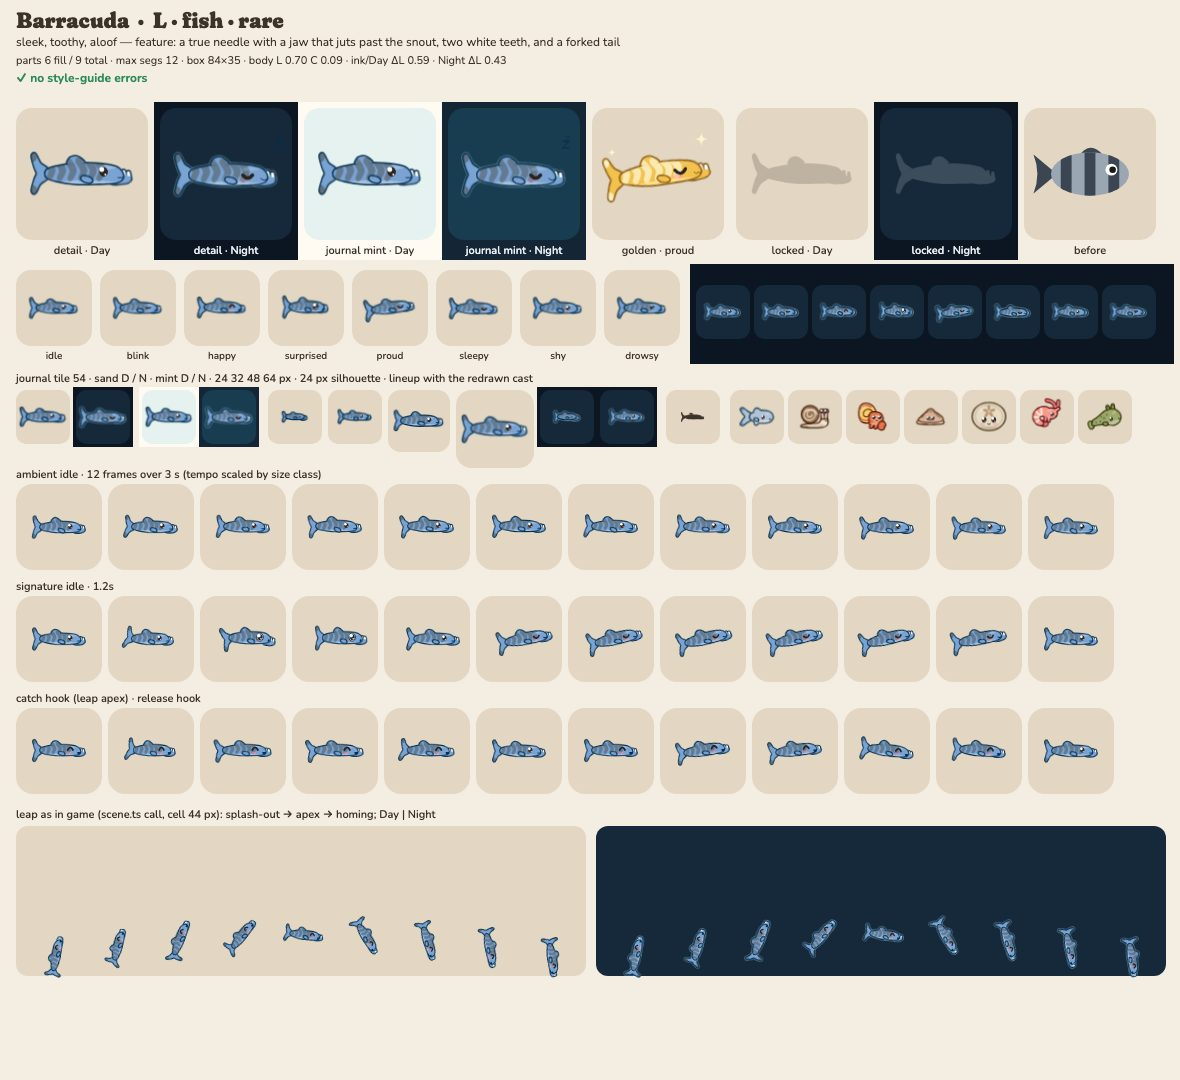
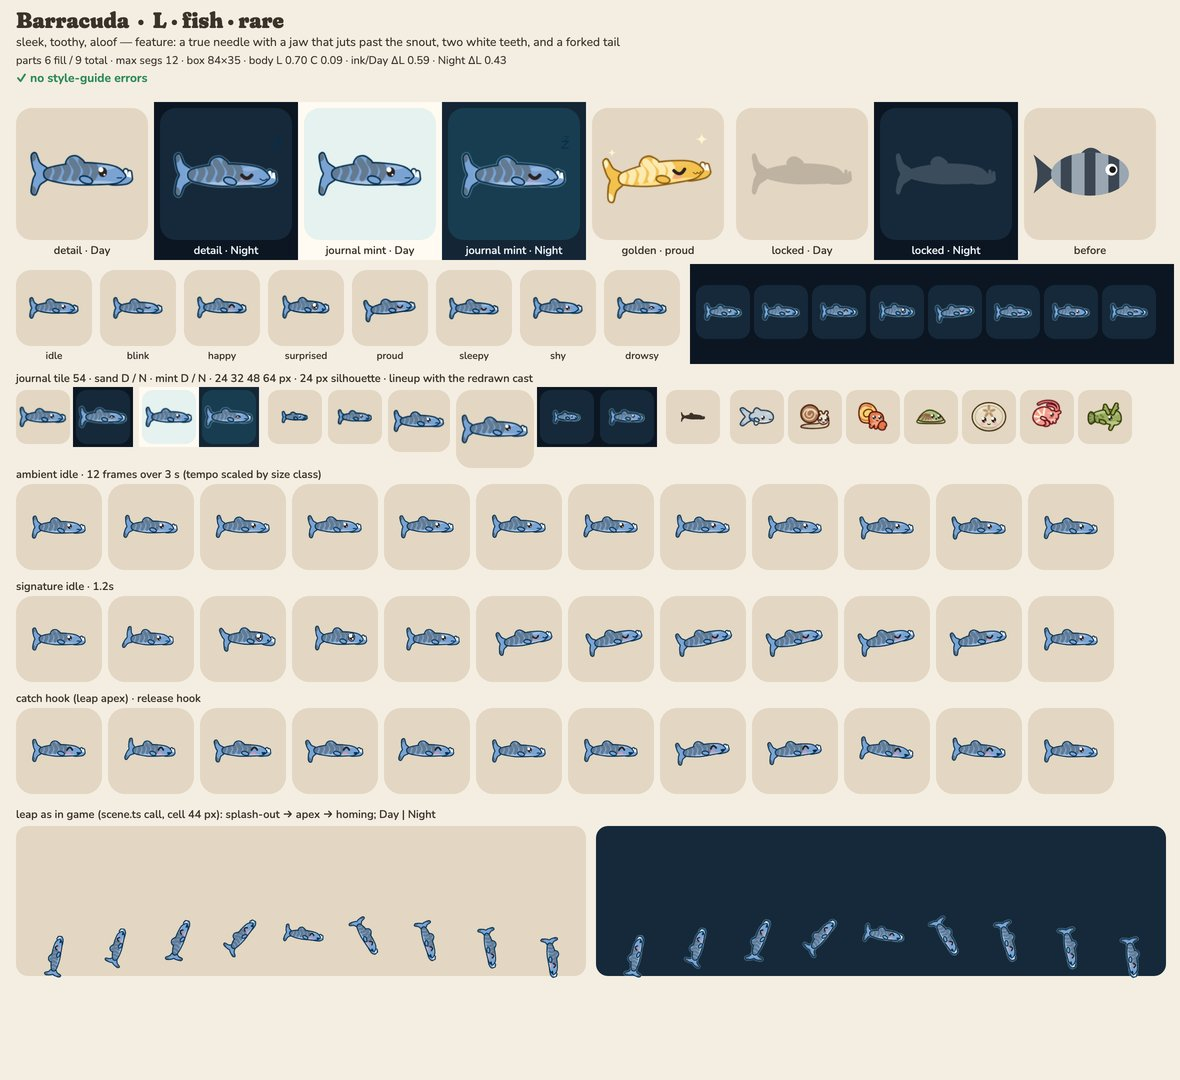
render: barracuda art round 3 — pointed snout, +6 u underbite, two 5 u white teeth (ADR 0011)
CRITIQUE-2: the round melon (dolphin) became a pointed upper snout, the jaw juts 5.5 u past it
with two taller white teeth that read at 54 px, chevrons moved back off the face. Aloof flat
mouth at rest. Closest: wrasse 0.681 (fish), sandeel 0.640. Verdict: A-.

diff --git a/src/render/art/species/barracuda.ts b/src/render/art/species/barracuda.ts
@@ -7,10 +7,11 @@
  */
 import { blob, capsule, defineArt, ellipse, join, tube } from '../kit.ts';
 
-// needle body: upper snout at +34, the lower jaw juts on to +41, tail root at −30
+// needle body: a pointed upper snout at +36.5 (never a round dolphin melon), the lower jaw juts
+// on to +42, tail root at −30
 const body = blob([
-  [34, -1],
-  [28, -6],
+  [36.5, 1],
+  [29, -5.5],
   [12, -8.5],
   [-6, -8.5],
   [-22, -6],
@@ -19,32 +20,32 @@ const body = blob([
   [-22, 6],
   [-6, 8.5],
   [12, 8.5],
-  [28, 7.5],
-  [34, 4.5],
+  [29, 7.5],
+  [35, 4],
 ]);
 // the jutting lower jaw (R10, exaggerated): a plump rounded wedge under and past the snout
 const jaw = blob([
   [24, 3],
-  [33, 1.5],
-  [40.5, 2.5],
-  [41, 6],
-  [36, 8.5],
+  [34, 2],
+  [41.5, 3.2],
+  [42, 5.6],
+  [37, 8.4],
   [24, 8.5],
 ]);
 // two white rounded teeth standing on the jaw tip
-const teeth = join(capsule(35.5, 2, 1.7, 35, -1.8, 1.4), capsule(39.5, 2.8, 1.6, 39.2, -0.8, 1.3));
+const teeth = join(capsule(37.6, 3, 1.8, 37.4, -2.4, 1.4), capsule(40.8, 3.6, 1.6, 40.6, -1, 1.3));
 // crisp fork, taller than the body
 const tail = blob(
   [
     [-28, -3.5],
     [-35, -9],
-    [-39.5, -17],
-    [-42.5, -15],
+    [-38.5, -17],
+    [-41.5, -15],
     [-40, -5],
     [-38, 0],
     [-40, 5],
-    [-42.5, 15],
-    [-39.5, 17],
+    [-41.5, 15],
+    [-38.5, 17],
     [-35, 9],
     [-28, 3.5],
   ],
@@ -67,7 +68,7 @@ const chevron = (x: number) =>
     [x + 1.5, -3, 3],
     [x - 1, 4, 2.4],
   ]);
-const chevrons = join(chevron(-27), chevron(-18), chevron(-9), chevron(0), chevron(8), chevron(15.5));
+const chevrons = join(chevron(-29), chevron(-21), chevron(-13), chevron(-5), chevron(3), chevron(10.5));
 
 export default defineArt({
   id: 'barracuda',
